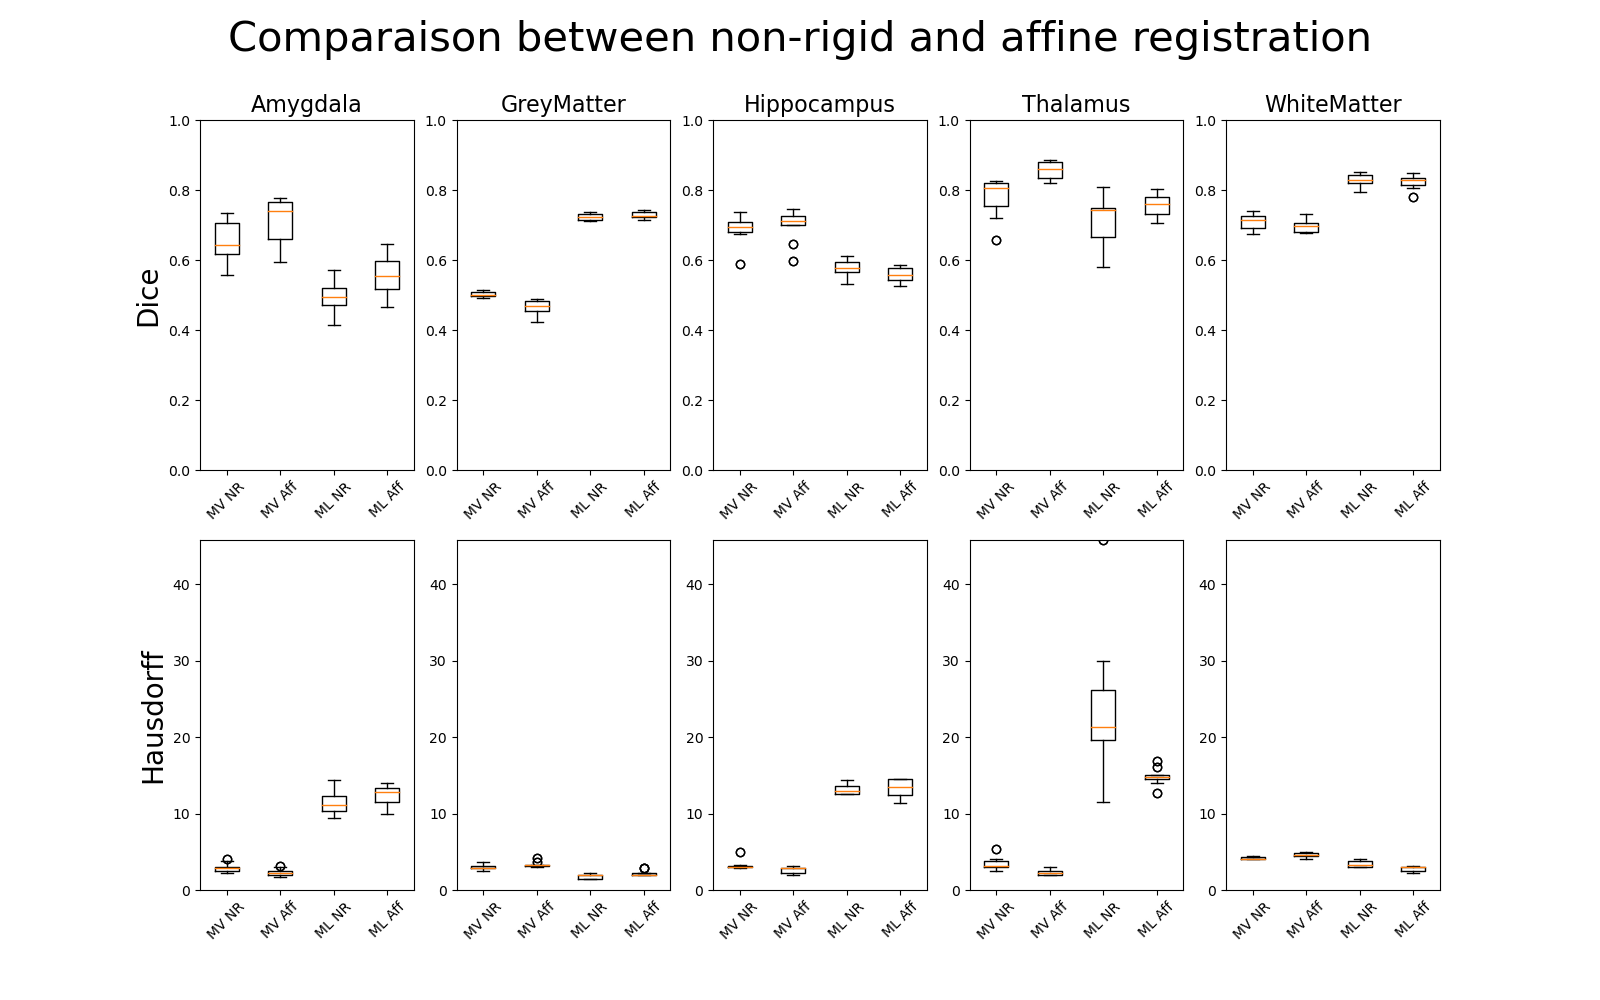
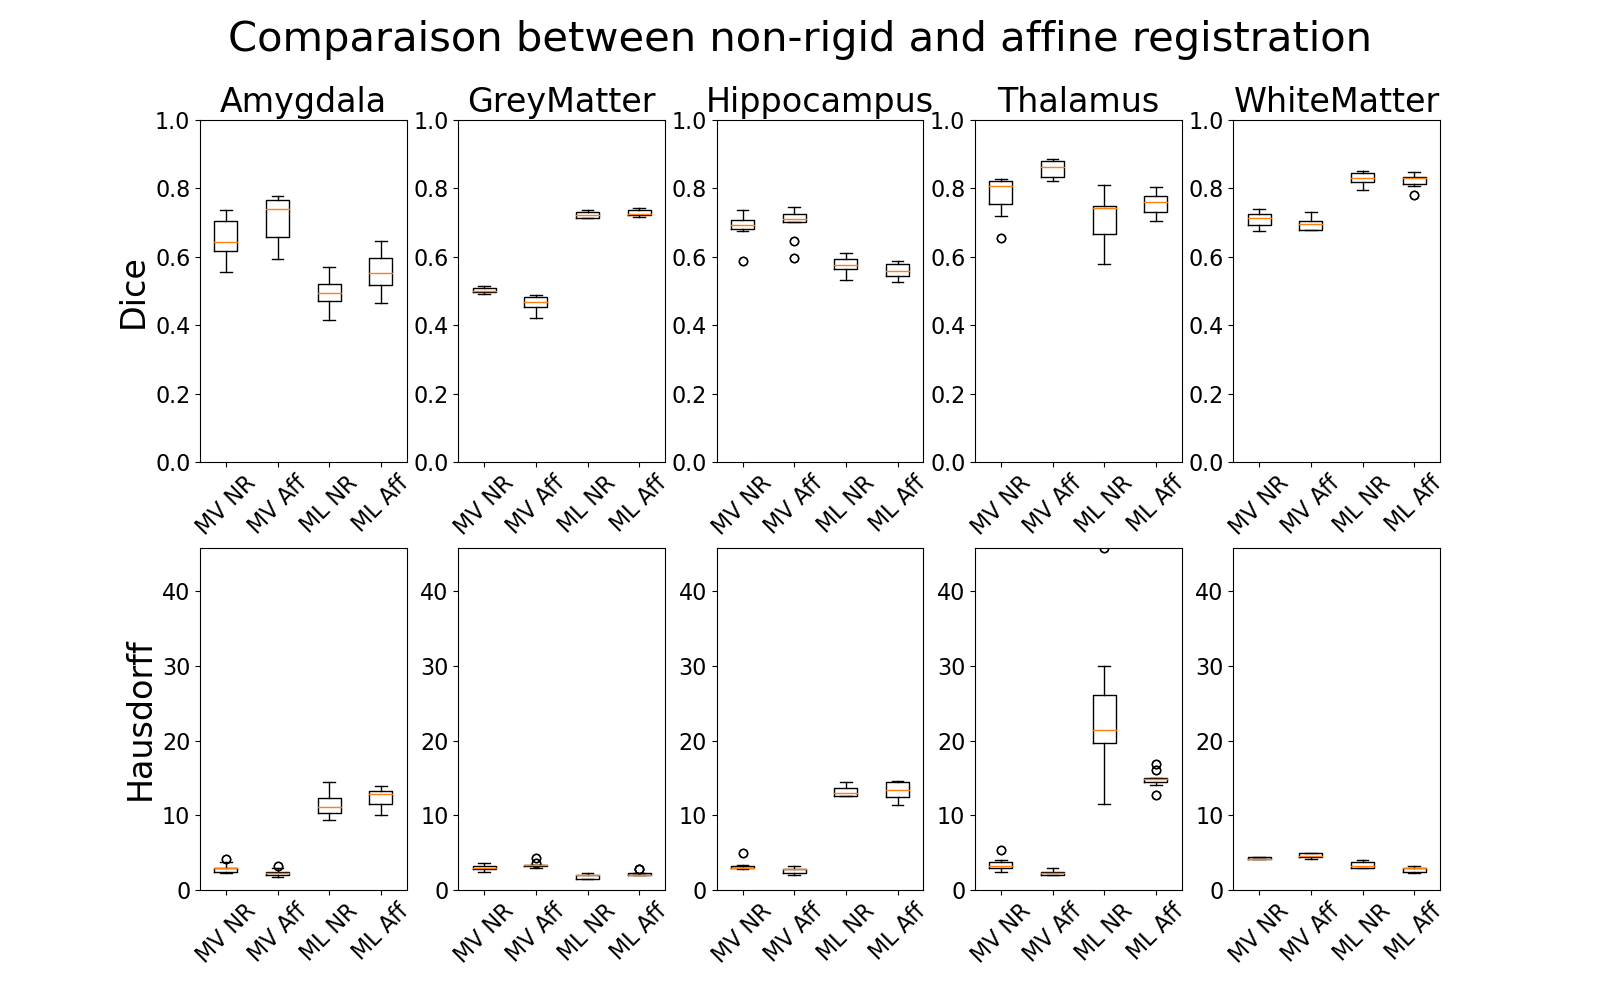
augmented font size for graphs to be easier to read in report

diff --git a/bin/boxplot.py b/bin/boxplot.py
@@ -17,8 +17,9 @@ def boxplot(repos, x_labels, title="", filename="boxplot", show=False):
 
     fig, axs = plt.subplots(2, 5, figsize=(16, 10))
     fig.suptitle(title, fontsize=30)
-    axs[0, 0].set_ylabel('Dice', fontsize=20)
-    axs[1, 0].set_ylabel('Hausdorff', fontsize=20)
+    fig.subplots_adjust(hspace=0.25, wspace=0.25)
+    axs[0, 0].set_ylabel('Dice', fontsize=24)
+    axs[1, 0].set_ylabel('Hausdorff', fontsize=24)
 
     for n in range(len(repos)):
         path = "mia-result/" + repos[n] + "/results.csv"
@@ -31,12 +32,14 @@ def boxplot(repos, x_labels, title="", filename="boxplot", show=False):
     for i in range(len(labels)):
         axs[0, i].boxplot([d[i] for d in dice])
         axs[0, i].set_ylim(0, 1)
-        axs[0, i].set_title(labels[i], fontsize=16)
-        axs[0, i].set_xticklabels(x_labels, rotation=45, fontsize=10)
+        axs[0, i].set_title(labels[i], fontsize=24)
+        axs[0, i].set_xticklabels(x_labels, rotation=45, fontsize=16)
+        axs[0, i].tick_params(labelsize=16)
 
         axs[1, i].boxplot([d[i] for d in hdrfdst])
         axs[1, i].set_ylim(0, np.max(hdrfdst))
-        axs[1, i].set_xticklabels(x_labels, rotation=45, fontsize=10)
+        axs[1, i].set_xticklabels(x_labels, rotation=45, fontsize=16)
+        axs[1, i].tick_params(labelsize=16)
 
     plt.savefig("mia-result/" + filename + ".png")
     if show:
